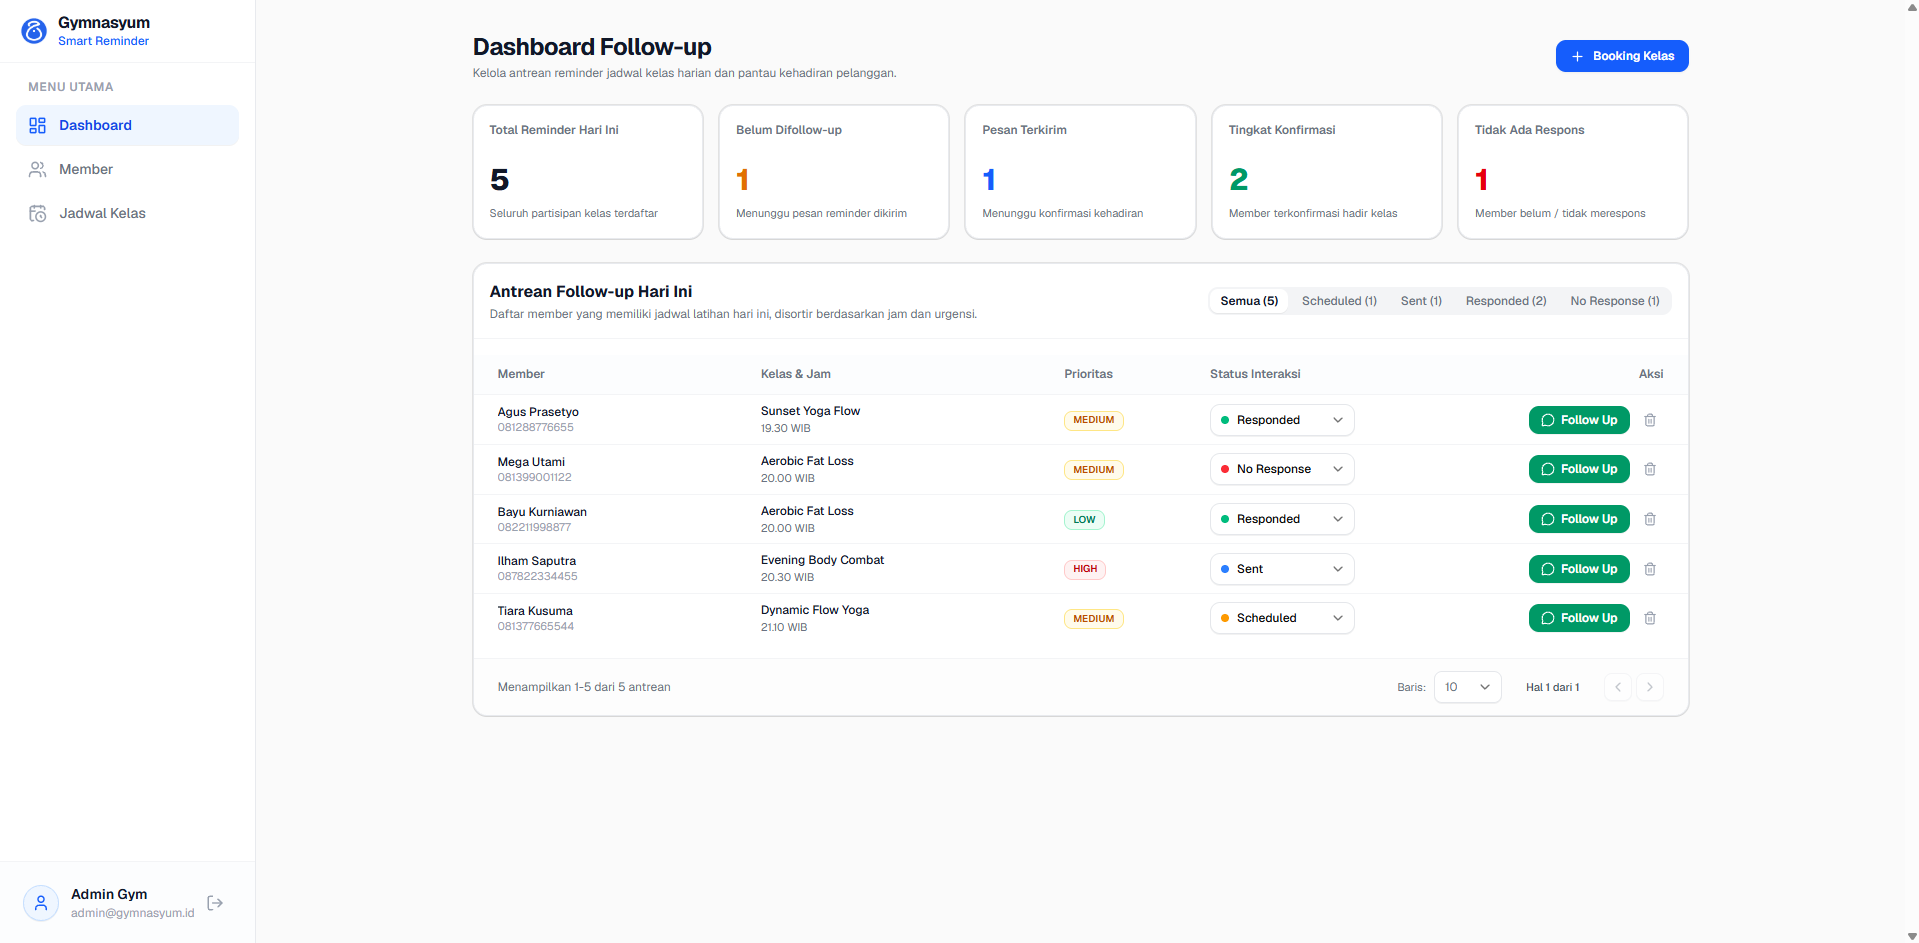
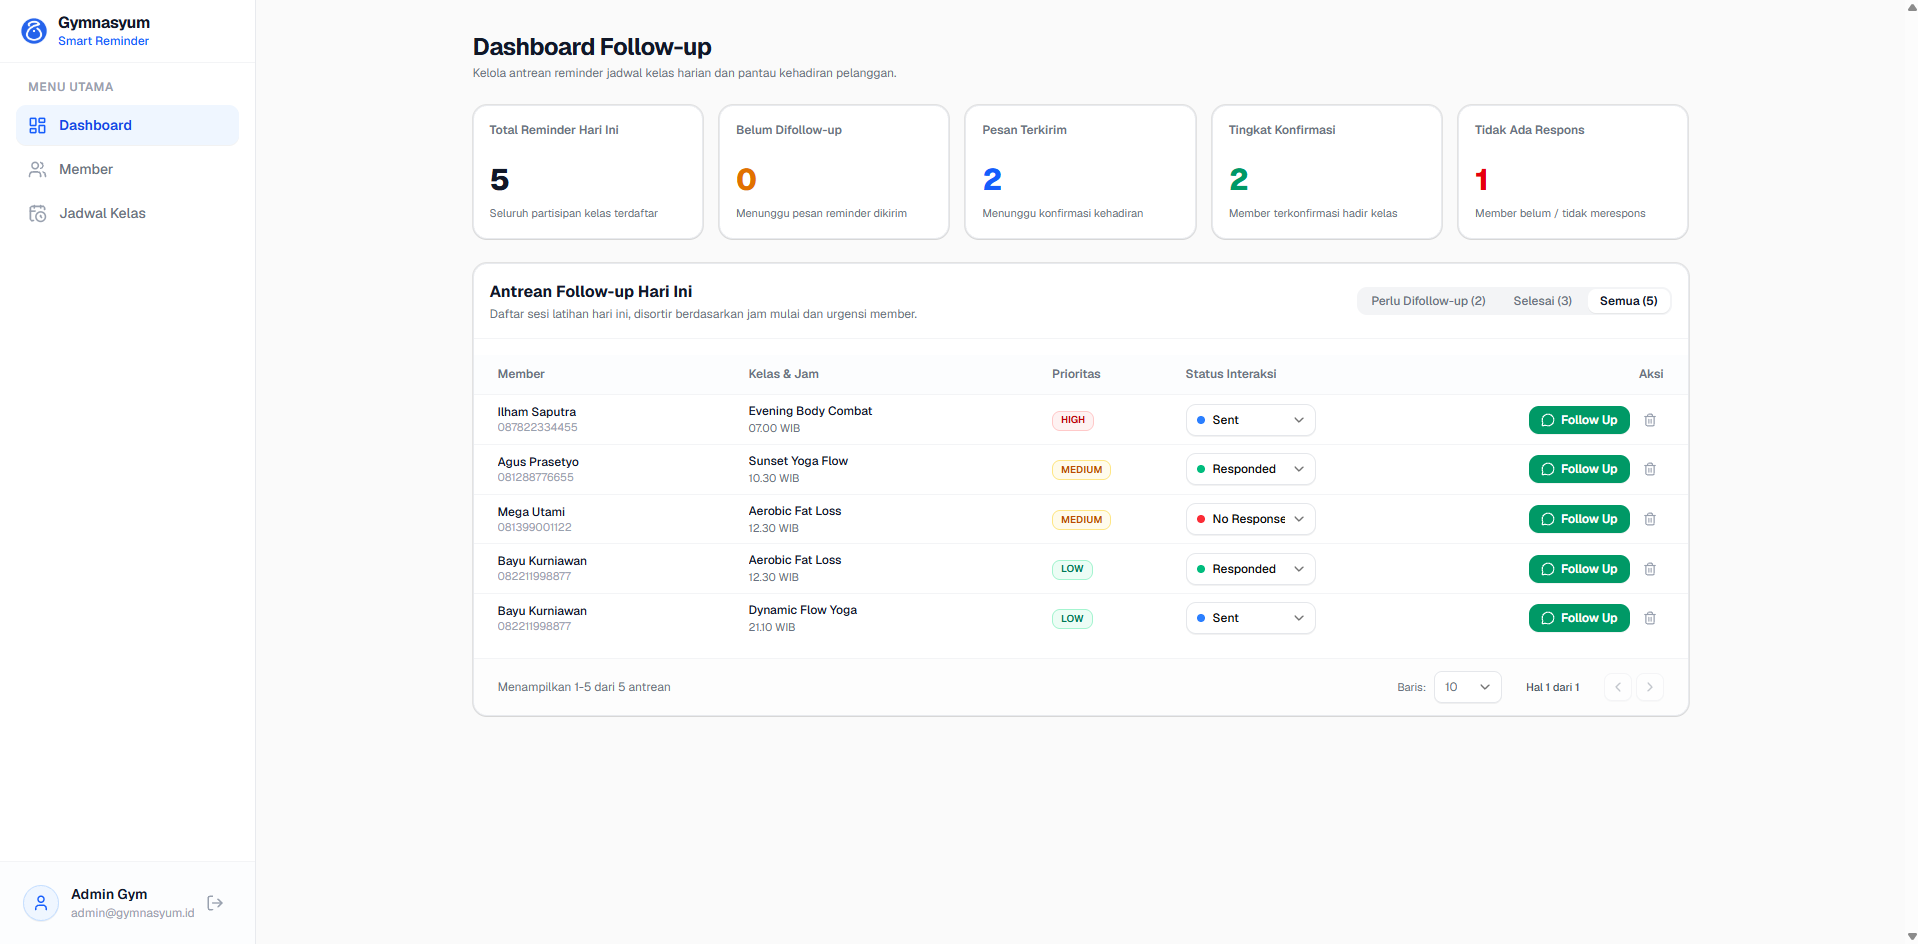
perbarui tangkapan layar dan dokumentasi readme

diff --git a/README.md b/README.md
@@ -19,9 +19,13 @@
 | :---: | :---: |
 | ![Dashboard Follow-up](docs/screenshots/dashboard.png) | ![Data Member](docs/screenshots/customers.png) |
 
-| Manajemen Jadwal Kelas | Halaman Login |
+| Manajemen Jadwal Kelas | Modal Booking Peserta Kelas |
 | :---: | :---: |
-| ![Jadwal Kelas](docs/screenshots/schedules.png) | ![Halaman Login](docs/screenshots/login.png) |
+| ![Jadwal Kelas](docs/screenshots/schedules.png) | ![Modal Booking Peserta Kelas](docs/screenshots/booking.png) |
+
+| Halaman Login Admin |
+| :---: |
+| ![Halaman Login](docs/screenshots/login.png) |
 
 ---
 
